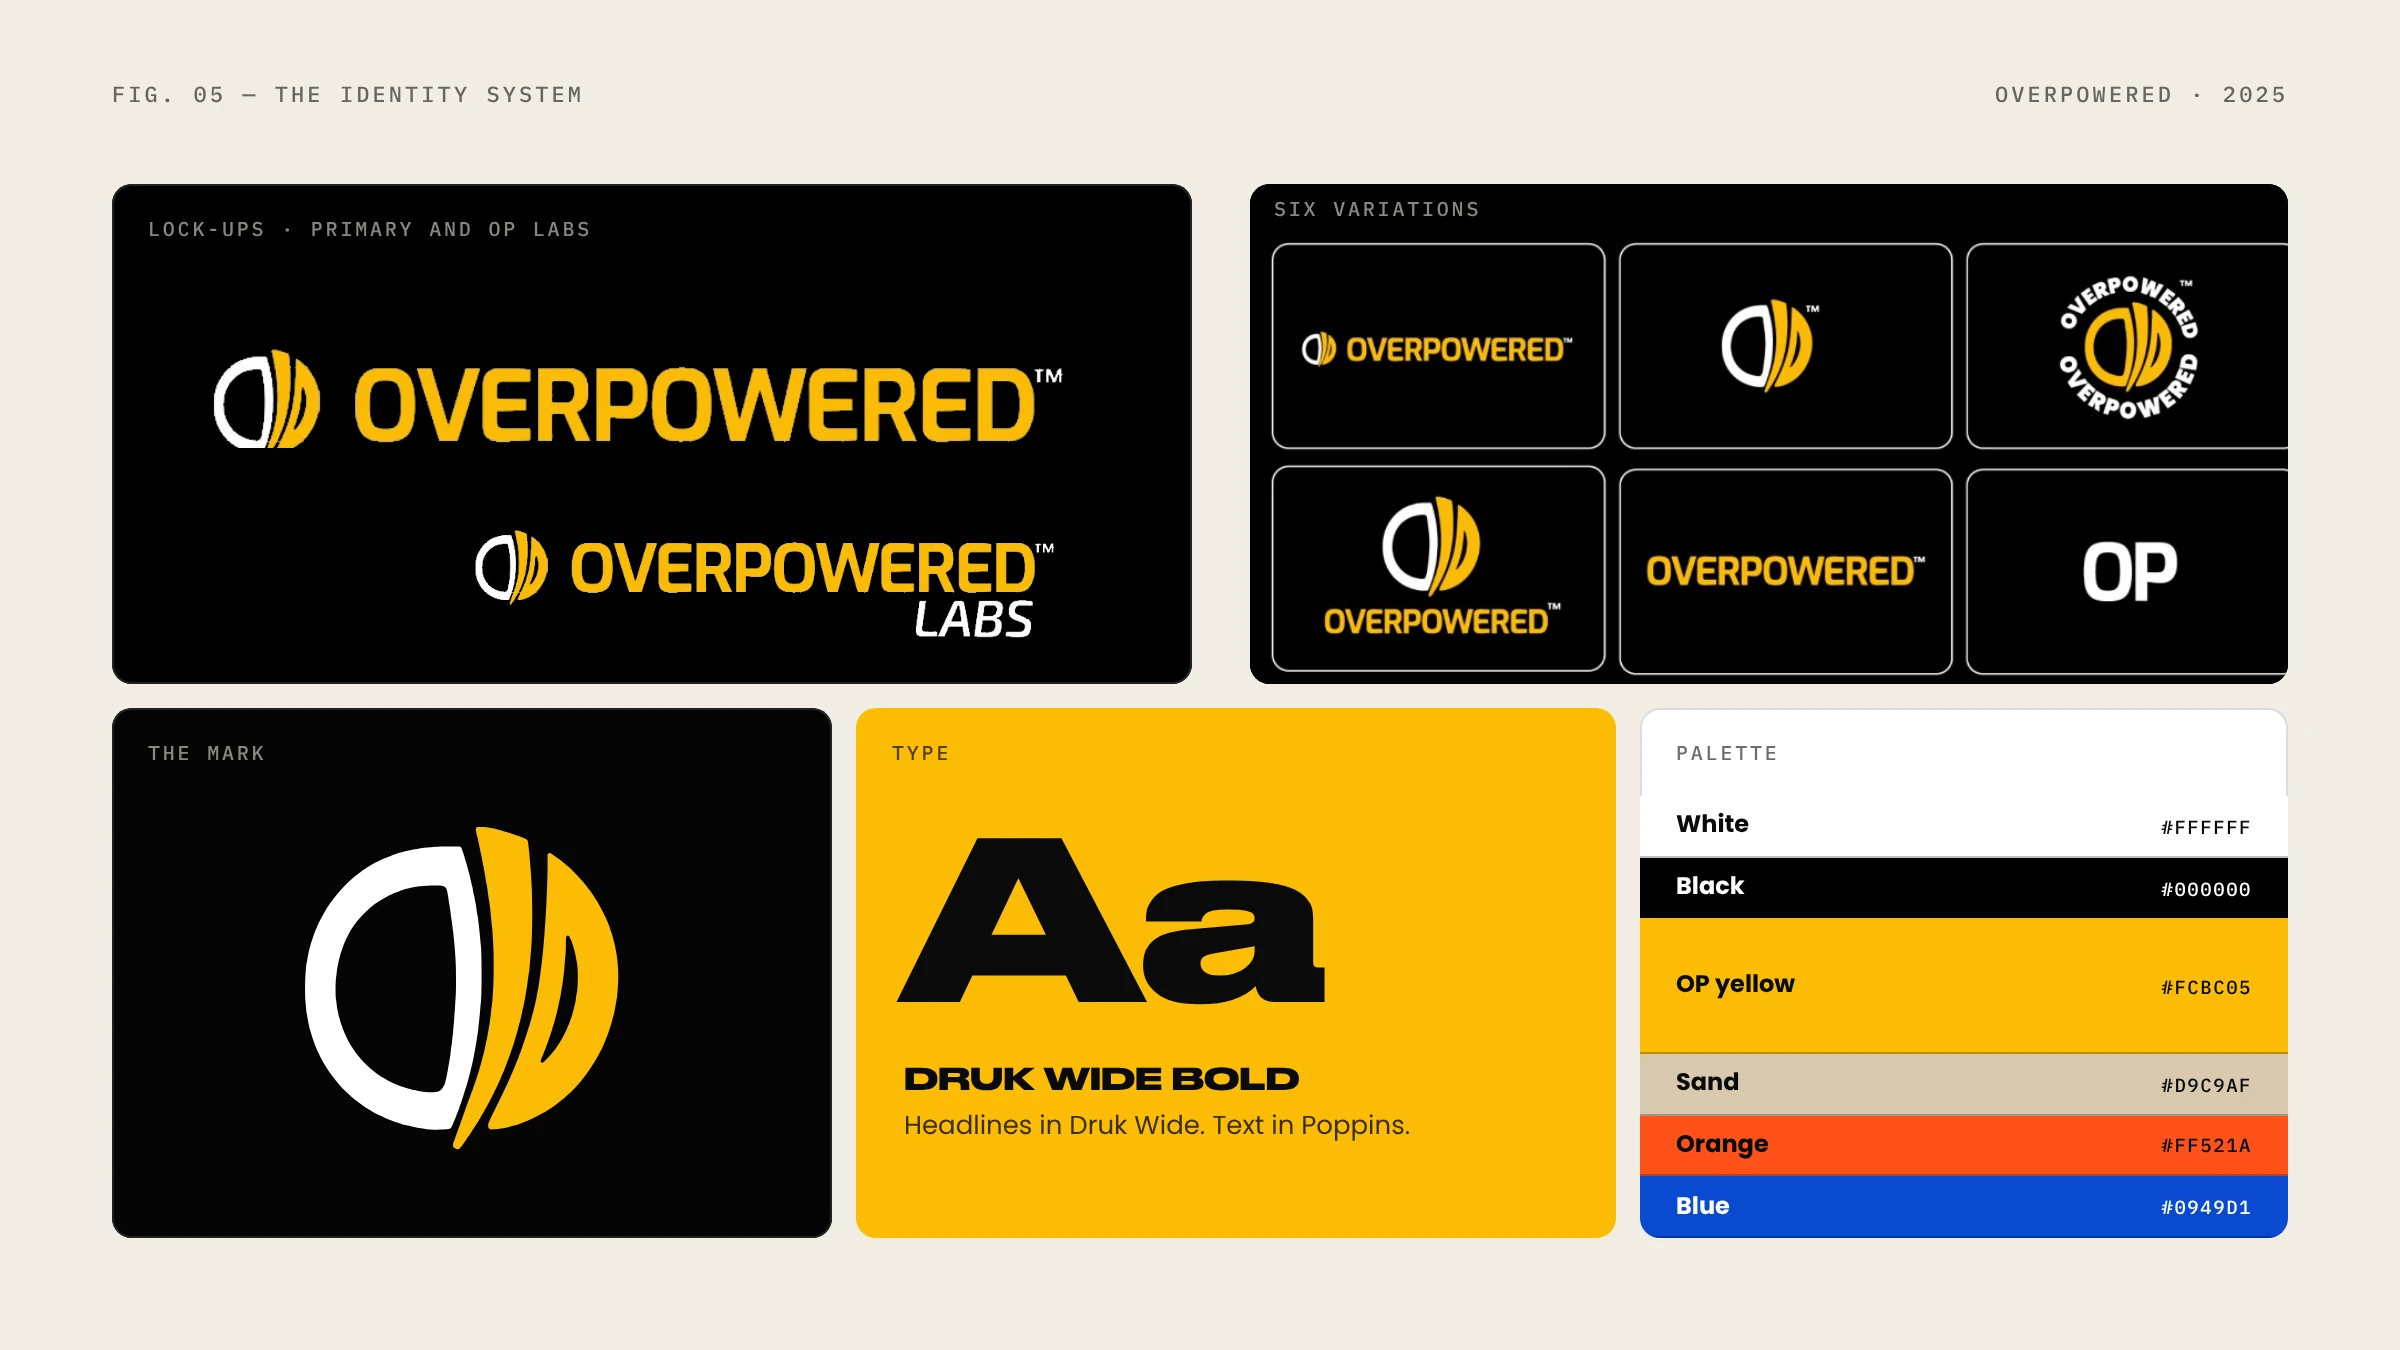
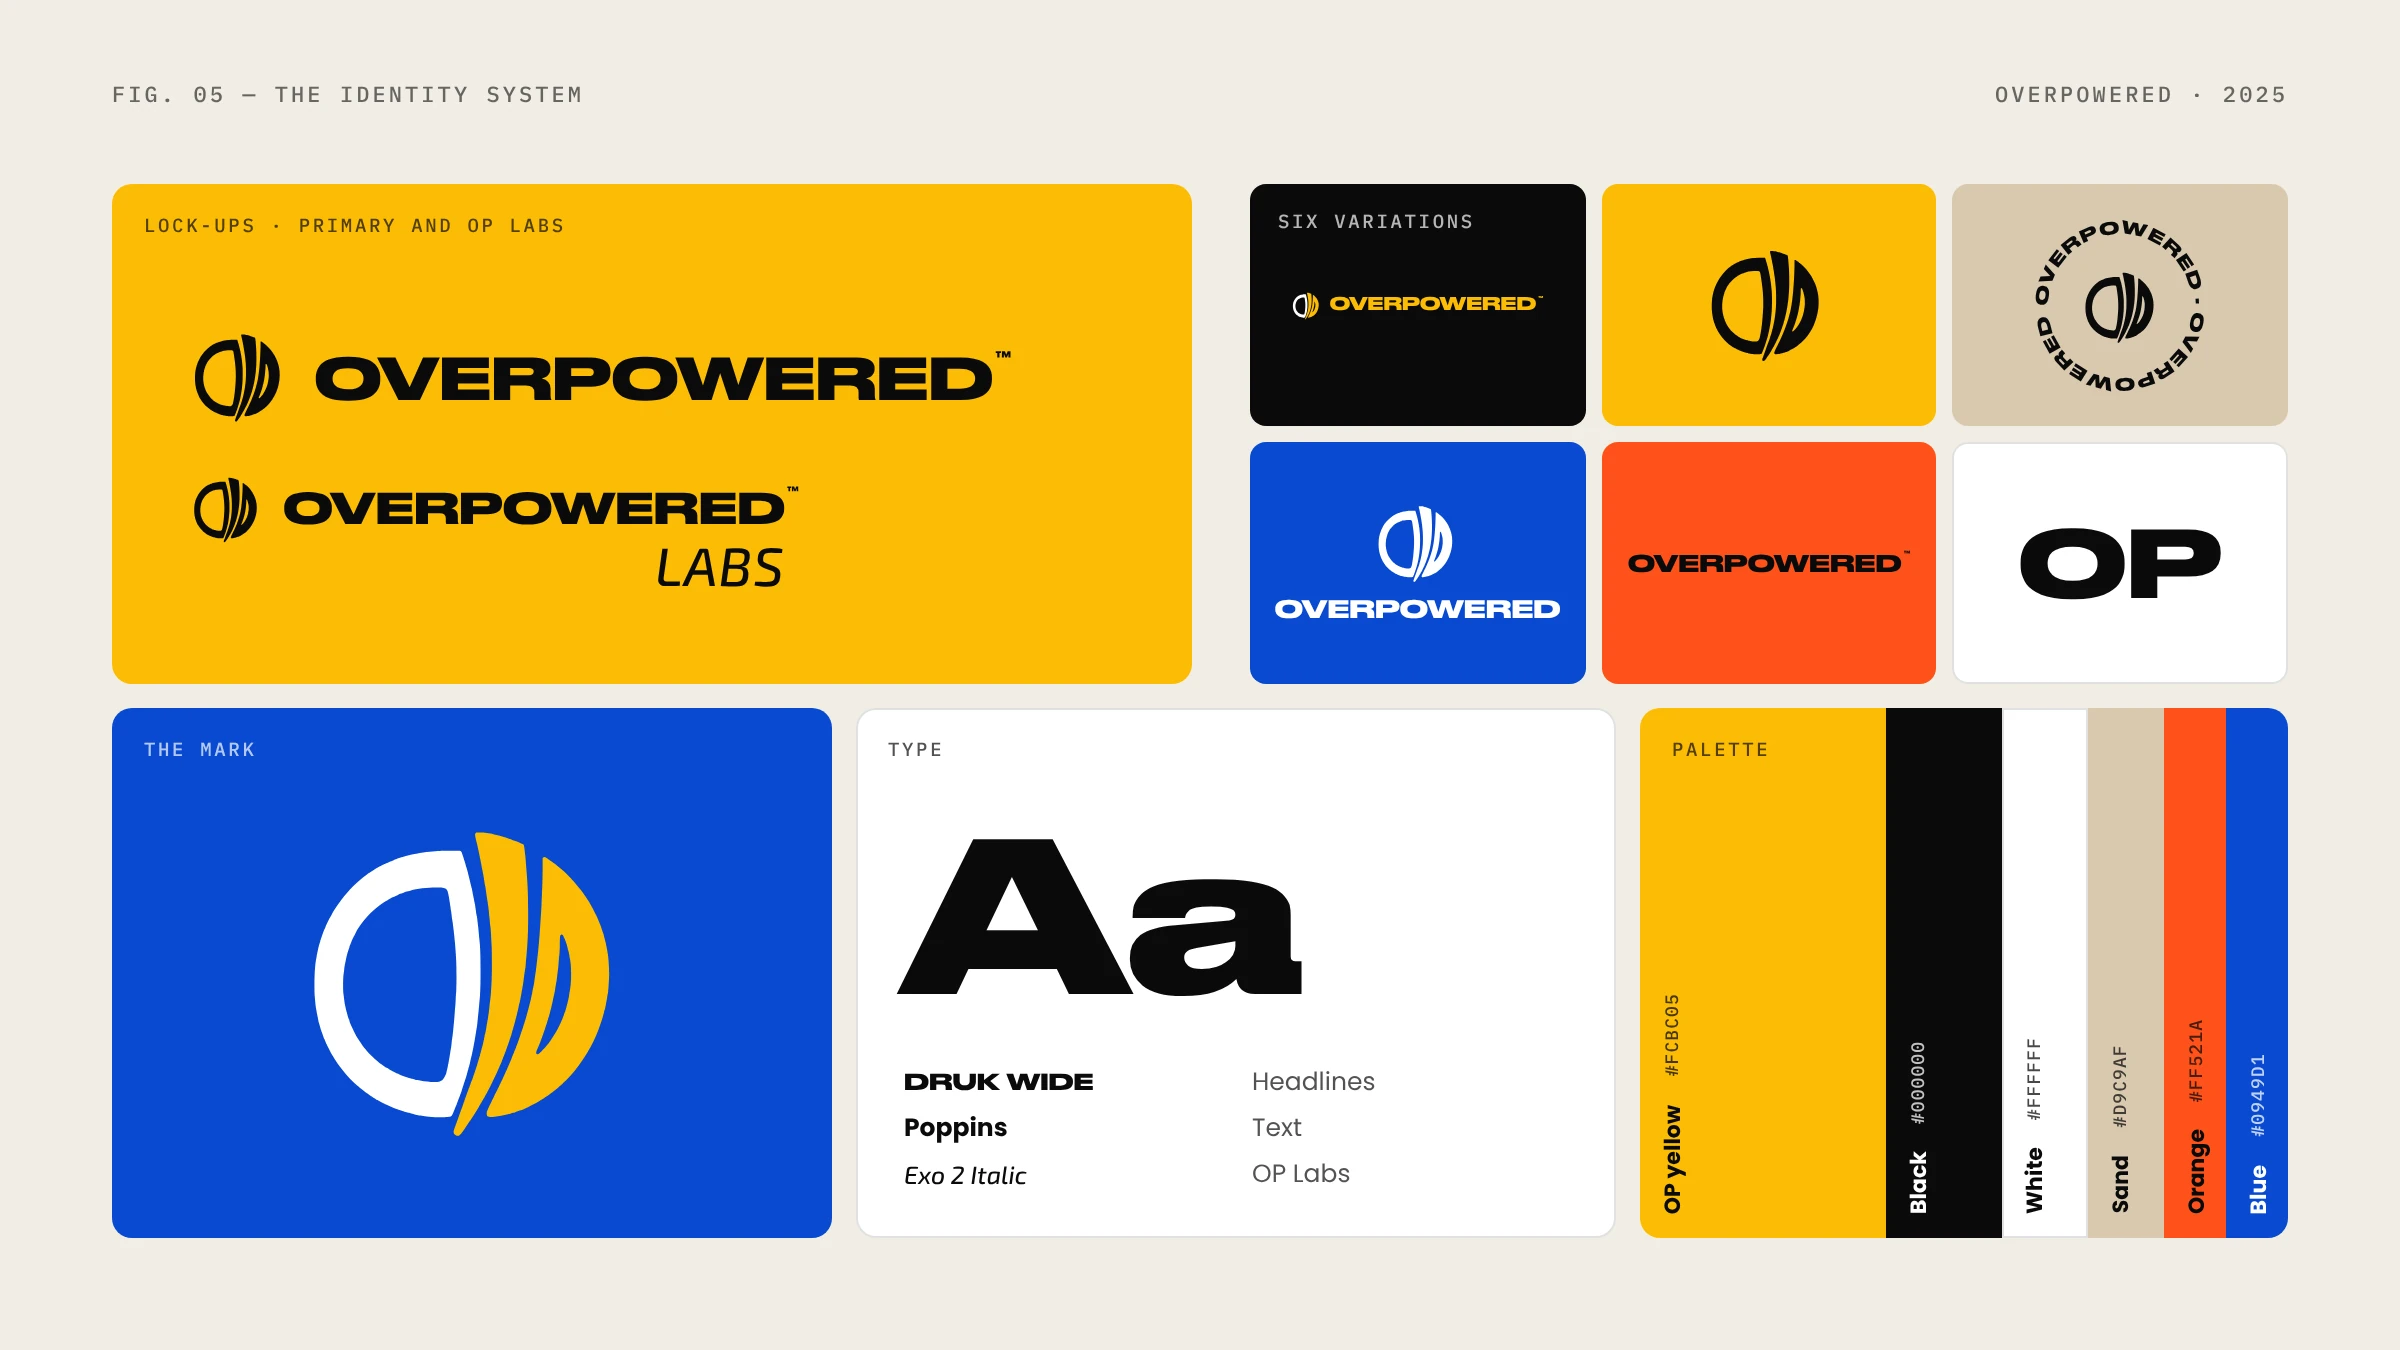
Overpowered: identity board rebuilt in vector on palette colours
Claude-Session: https://claude.ai/code/session_0137XXpZA3jAMF7ZDAPuorpn

diff --git a/lib/projects.ts b/lib/projects.ts
@@ -167,7 +167,7 @@ export const caseStudies: CaseStudy[] = [
           tp("We tested elements in small Instagram campaigns in the UAE, the UK and Egypt before committing. The agency went on to use the identity for about a year."),
         ],
         figures: [
-          { images: [{ src: "/images/op-fig-09-v3.webp", alt: tp("The identity system from the January 2025 guidelines: the primary and OP Labs lock-ups, six logo variations, the mark, Druk Wide Bold and the palette") }], caption: tp("From the January 2025 brand guidelines.") },
+          { images: [{ src: "/images/op-fig-09-v3.webp", alt: tp("The identity system: the primary and OP Labs lock-ups on yellow, six logo variations on colours from the palette, the mark, the typefaces and the palette") }], caption: tp("From the January 2025 brand guidelines.") },
           { images: [{ src: "/images/op-billboard-v1.webp", alt: tp("Billboard: Transforming ideas into impactful designs, over a grainy black-and-white crowd with yellow value tags"), ratio: "1296 / 768" }] },
           { images: [{ src: "/images/op-social-1-v2.webp", alt: tp("Social post: When science and design collaborate"), ratio: "4 / 5" }, { src: "/images/op-social-2-v2.webp", alt: tp("Social post: Pushing boundaries"), ratio: "4 / 5" }, { src: "/images/op-social-3-v2.webp", alt: tp("Social post: Top notch design solutions"), ratio: "4 / 5" }], caption: tp("The identity in use, outdoors and on social media.") },
         ],
